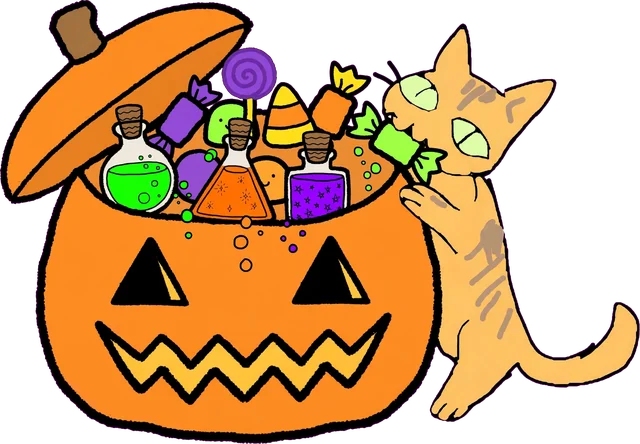
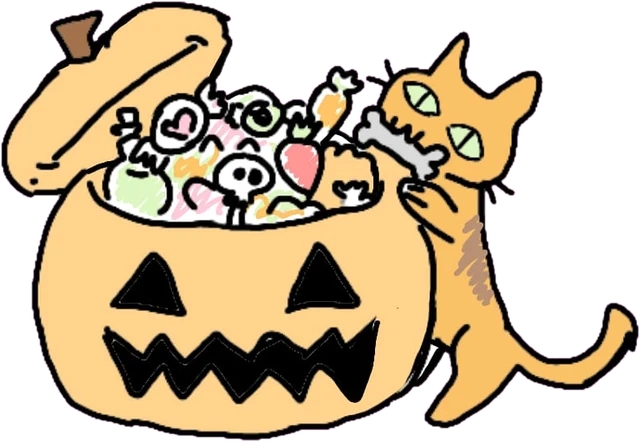
Dina Run 0.8.1: Dina y la calabaza, dibujo de Sofía
Claude-Session: https://claude.ai/code/session_01HEWaVzGkqrhq9G5UzBfi6L

diff --git a/index.html b/index.html
@@ -1078,7 +1078,7 @@ body.calm .goCard,body.calm #unlock .box,body.calm .dinaRow .dinaImg,body.calm #
         </div>
         <div class="setLinks">
           <div class="credit">Dibujos y animación de Sofía 🎨</div>
-          <div class="credit" style="font-size:.8em;opacity:.8">Vestido de Alicia, Dina con la calabaza, pociones y golosinas: hechos con ayuda de IA sobre los dibujos de Sofía · Calabazas: diseño provisorio hasta que llegue el dibujo de Sofía</div>
+          <div class="credit" style="font-size:.8em;opacity:.8">Vestido de Alicia, pociones y golosinas: hechos con ayuda de IA sobre los dibujos de Sofía · Calabazas: diseño provisorio hasta que llegue el dibujo de Sofía</div>
           <button class="verLink" id="verLink"></button>
           <button class="verLink" id="tutLink">Repetir la carrera de práctica</button>
           <div><button class="linkBtn" id="resetBtn">Borrar mi progreso</button>
@@ -1322,6 +1322,9 @@ const POWERS={
 /* novedades: cada versión que ven los jugadores, la más nueva primero */
 const VERSION='0.7';
 const NEWS=[
+  {v:'0.8.1',fecha:'octubre 2026',titulo:'Dina y la calabaza, de Sofía',items:[
+    ['🎨','Sofía dibujó a Dina comiéndose la calabaza: ahora es el ícono del juego y aparece al final de las partidas de Halloween (antes era una versión hecha con ayuda de IA).'],
+  ]},
   {v:'0.8',fecha:'octubre 2026',titulo:'¡Nos mudamos a Kiut Studio!',items:[
     ['🏠','Dina Run ahora vive en Kiut Studio, el estudio de Sofía y Leandro: kiut-studio.github.io/dina-run'],
     ['🐱','Si entrás por la dirección vieja, te trae solo con tus frutillas, tus personajes y tu pase de Halloween.'],

diff --git a/sw.js b/sw.js
@@ -2,7 +2,7 @@
 // Ojo: este juego comparte el sitio (kiut-studio.github.io) con Dina Beat,
 // así que solo borra sus propias cachés (las que empiezan con PRE), nunca las del otro juego.
 const PRE='sofi-runner-';
-const C=PRE+'v6';
+const C=PRE+'v7';
 const FILES=["./", "index.html", "manifest.json", "icon-192.png", "icon-512.png", "favicon-32.png", "assets/cinthia.webp", "assets/deisy.webp", "assets/dina.webp", "assets/dina_calabaza.webp", "assets/dina_avatar.webp", "assets/dina_anim.webp", "assets/frutilla.webp", "assets/kampito.webp", "assets/kampito_tropical.webp", "assets/kampito_verde.webp", "assets/leandro.webp", "assets/nora.webp", "assets/nubes.webp", "assets/pancito.webp", "assets/sofi.webp", "assets/sofi_hoodie.webp", "assets/sofi_alicia.webp", "assets/torta.webp", "assets/dina_bruja.webp", "assets/dina_brujito.webp", "assets/dina_vampiro.webp", "assets/hw_pocion_verde.webp", "assets/hw_pocion_violeta.webp", "assets/hw_pocion_naranja.webp", "assets/hw_caramelo_verde.webp", "assets/hw_chupetin.webp", "assets/hw_candy_corn.webp", "assets/hw_gomita.webp", "assets/hw_bombon.webp", "assets/hw_caramelo_violeta.webp"];
 // cache:'reload' baja cada archivo de nuevo (sin copias viejas del navegador) al instalar una versión nueva
 self.addEventListener('install',e=>{e.waitUntil(caches.open(C).then(c=>c.addAll(FILES.map(f=>new Request(f,{cache:'reload'})))));self.skipWaiting()});

diff --git a/CONTEXTO.md b/CONTEXTO.md
@@ -2,7 +2,7 @@
 
 Documento para retomar el trabajo en cualquier conversación. Resume qué es el juego, cómo está hecho, qué se decidió y por qué, y qué sigue. Actualizarlo con cada versión.
 
-Última actualización: 28/10/2026 · versión 0.8
+Última actualización: 28/10/2026 · versión 0.8.1
 
 ## Qué es
 
@@ -12,7 +12,7 @@ Documento para retomar el trabajo en cualquier conversación. Resume qué es el 
 
 - **Autor:** Leandro (programación con asistencia de IA).
 - **Dibujos, personajes y animación:** **Sofía** (Sofi). Todos los dibujos son suyos y están © Sofía; ella aceptó reutilizarlos en este juego.
-- **Excepciones, siempre acreditadas:** el vestido de Alicia de Sofi, Dina comiendo la calabaza (`dina_calabaza.webp`, recortada del fondo magenta) y las pociones y golosinas de Halloween (`hw_*.webp`) se hicieron con ayuda de IA sobre dibujos de Sofía; las calabazas que se esquivan son un diseño provisorio hecho con código (`pumpkinCv` en `index.html`) hasta que Sofía pase su dibujo.
+- **Excepciones, siempre acreditadas:** el vestido de Alicia de Sofi y las pociones y golosinas de Halloween (`hw_*.webp`) se hicieron con ayuda de IA sobre dibujos de Sofía; las calabazas que se esquivan son un diseño provisorio hecho con código (`pumpkinCv` en `index.html`) hasta que Sofía pase su dibujo. Dina comiendo la calabaza (`dina_calabaza.webp`) era con IA hasta la 0.8; desde la 0.8.1 es un dibujo de Sofía (recortado de su fondo rosa), que también es el logo de Kiut Studio.
 - **Personajes:** Sofi, Deisy, Leandro, Nora y Cinthia, más la gata Dina. Son la familia de Leandro.
 - **Público:** cualquiera (amigos de la familia que lo probaron y les gustó). Se piensa a futuro en Play Store.
 
@@ -24,11 +24,11 @@ Se quitó todo lo propio de la familia: fiesta final con la vela y el video, cum
 
 ## Cómo está hecho
 
-- **Instalación como app:** Torta Runner, Dina Run y Dina Beat están en el mismo sitio (`kiut-studio.github.io`, salvo Torta Runner, que quedó en `leandroacasco.github.io`), cada uno en su carpeta. Cada `manifest.json` tiene su propio `id` y `scope` (`./`) y su ícono, para que el teléfono los instale aparte. Hasta la 0.7 los tres usaban el mismo ícono de Torta Runner y parecían el mismo; desde la 0.7.2 Dina Run usa a Dina comiendo la calabaza (`dina_calabaza.webp`, hecha con ayuda de IA sobre el dibujo de Sofía) en un círculo rosa claro sobre fondo rosa (Leandro la eligió).
+- **Instalación como app:** Torta Runner, Dina Run y Dina Beat están en el mismo sitio (`kiut-studio.github.io`, salvo Torta Runner, que quedó en `leandroacasco.github.io`), cada uno en su carpeta. Cada `manifest.json` tiene su propio `id` y `scope` (`./`) y su ícono, para que el teléfono los instale aparte. Hasta la 0.7 los tres usaban el mismo ícono de Torta Runner y parecían el mismo; desde la 0.7.2 Dina Run usa a Dina comiendo la calabaza en un círculo rosa claro sobre fondo rosa (Leandro la eligió); desde la 0.8.1 con el dibujo de Sofía (`favicon-32.png` va sin círculo para que se entienda chiquito).
 
 - **Web (HTML5 + canvas)**, todo el juego en `index.html`. Instalable como app (PWA) y pensado para GitHub Pages.
 - Sin servidor: el progreso, el ranking y el desafío semanal se guardan solo en el dispositivo (`localStorage`, clave `sofiRunner.v1`).
-- **Comparte sitio con Dina Beat** (`kiut-studio.github.io`): por eso usa su propia clave de guardado y su `sw.js` solo borra sus propias cachés (las que empiezan con `sofi-runner-`). Al subir una versión nueva hay que subir el número de caché en `sw.js` (hoy `sofi-runner-v6`).
+- **Comparte sitio con Dina Beat** (`kiut-studio.github.io`): por eso usa su propia clave de guardado y su `sw.js` solo borra sus propias cachés (las que empiezan con `sofi-runner-`). Al subir una versión nueva hay que subir el número de caché en `sw.js` (hoy `sofi-runner-v7`).
 - Paso fijo de 60 actualizaciones por segundo (misma velocidad en pantallas de 60, 90 o 120 Hz). Física: gravedad 0,95, salto −17, doble salto −14.
 - `#prueba` al final de la dirección activa `window.TR`, un acceso para las pruebas automáticas (incluye el simulador de partidas).
 
@@ -37,7 +37,7 @@ Se quitó todo lo propio de la familia: fiesta final con la vela y el video, cum
 ```
 index.html        el juego completo
 manifest.json     datos para instalarlo como app
-sw.js             copia sin conexión (caché sofi-runner-v6)
+sw.js             copia sin conexión (caché sofi-runner-v7)
 icon-192.png, icon-512.png, favicon-32.png
 assets/           dibujos de Sofía (WebP). dina_anim.webp: hoja con la caminata de Dina (2 cuadros) × 4 looks (sin disfraz, bruja, brujito, vampiro)
 docs/             capturas para el README
@@ -147,6 +147,7 @@ Antes del equilibrio, la experta llegaba a una mediana de 51.000 m (y Leandro hi
 | 0.7.2 | Ícono propio (Dina comiendo la calabaza), `id` y `scope` propios para instalarse aparte; dirección nueva `/dina-run/` (sin redirección: Leandro les pasa el enlace nuevo a sus testers) |
 | 0.7.3 | Arreglo para instalar (`id` absoluto) |
 | 0.8 | Mudanza a Kiut Studio con el progreso |
+| 0.8.1 | Dina con la calabaza dibujada por Sofía (ícono y pantalla final de Halloween) |
 
 - **Instalación (0.7.3 / 0.8.4):** el `id` del manifest es una ruta absoluta (`/dina-run/`, `/dina-beat/`). Antes era `./?app=…`: Leandro vio en Android "No se puede instalar esta app" con Dina Run. La sospecha es que el `id` viejo seguía ligado a la instalación de Sofi Runner (misma cadena `?app=sofi-runner`) o que Chrome lo resolvía distinto; con la ruta absoluta no hay ambigüedad. Íconos separados en `any` y `maskable`. En Chromium de escritorio el juego daba "instalable" igual. Si vuelve a pasar: desinstalar los íconos viejos (Sofi Runner) y probar con ⋮ → Agregar a pantalla principal. **No** borrar los datos del sitio en Chrome: borraría las frutillas de todos los juegos.
 

diff --git a/README.md b/README.md
@@ -146,7 +146,7 @@ El juego se puede instalar y jugar sin internet una vez abierto.
 | Qué | Quién |
 | --- | --- |
 | Dibujos, personajes y animación (incluida la caminata y los disfraces de Dina) | **Sofía** 🎨 |
-| Vestido de Alicia de Sofi, Dina comiendo la calabaza, pociones y golosinas de Halloween | Hechos con ayuda de IA sobre los dibujos de Sofía |
+| Vestido de Alicia de Sofi, pociones y golosinas de Halloween | Hechos con ayuda de IA sobre los dibujos de Sofía |
 | Calabazas de Halloween | Diseño provisorio hecho con código, hasta que llegue el dibujo de Sofía |
 | Idea y producción | Leandro |
 | Programación | Leandro, con asistencia de IA (Claude) |

diff --git a/CHANGELOG.md b/CHANGELOG.md
@@ -1,5 +1,9 @@
 # Novedades de Dina Run
 
+## Versión 0.8.1 — octubre 2026: Dina y la calabaza, de Sofía
+
+- 🎨 Sofía dibujó a Dina comiéndose la calabaza: ahora es el ícono del juego y aparece al final de las partidas de Halloween (antes era una versión hecha con ayuda de IA).
+
 ## Versión 0.8 — octubre 2026: ¡Nos mudamos a Kiut Studio!
 
 - 🏠 Dina Run ahora vive en **Kiut Studio**, el estudio de Sofía y Leandro: https://kiut-studio.github.io/dina-run/
